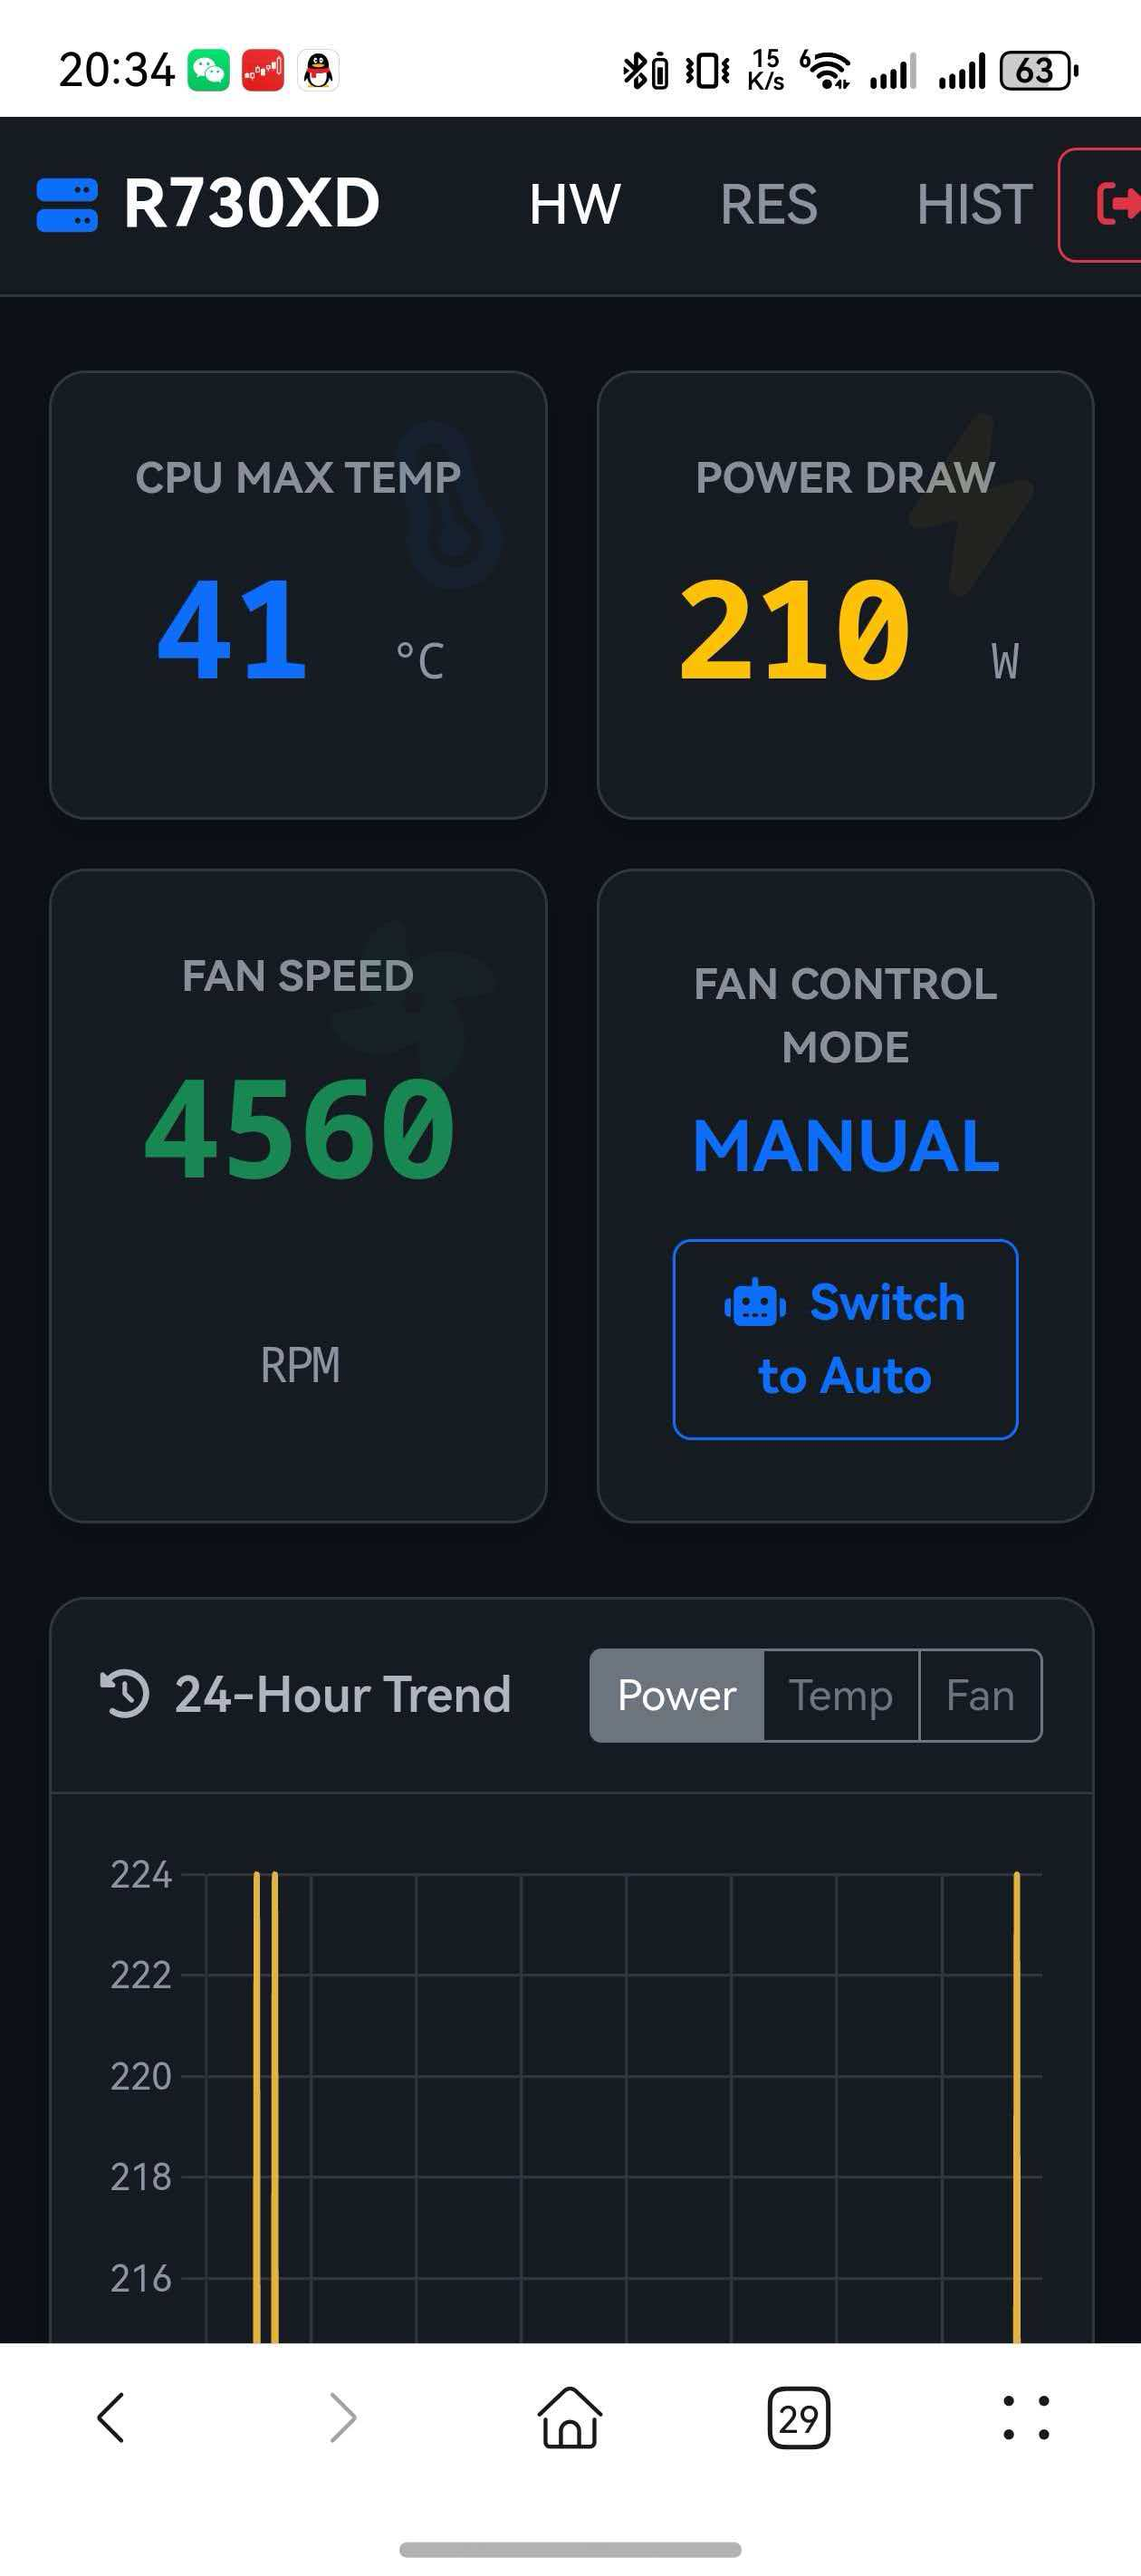
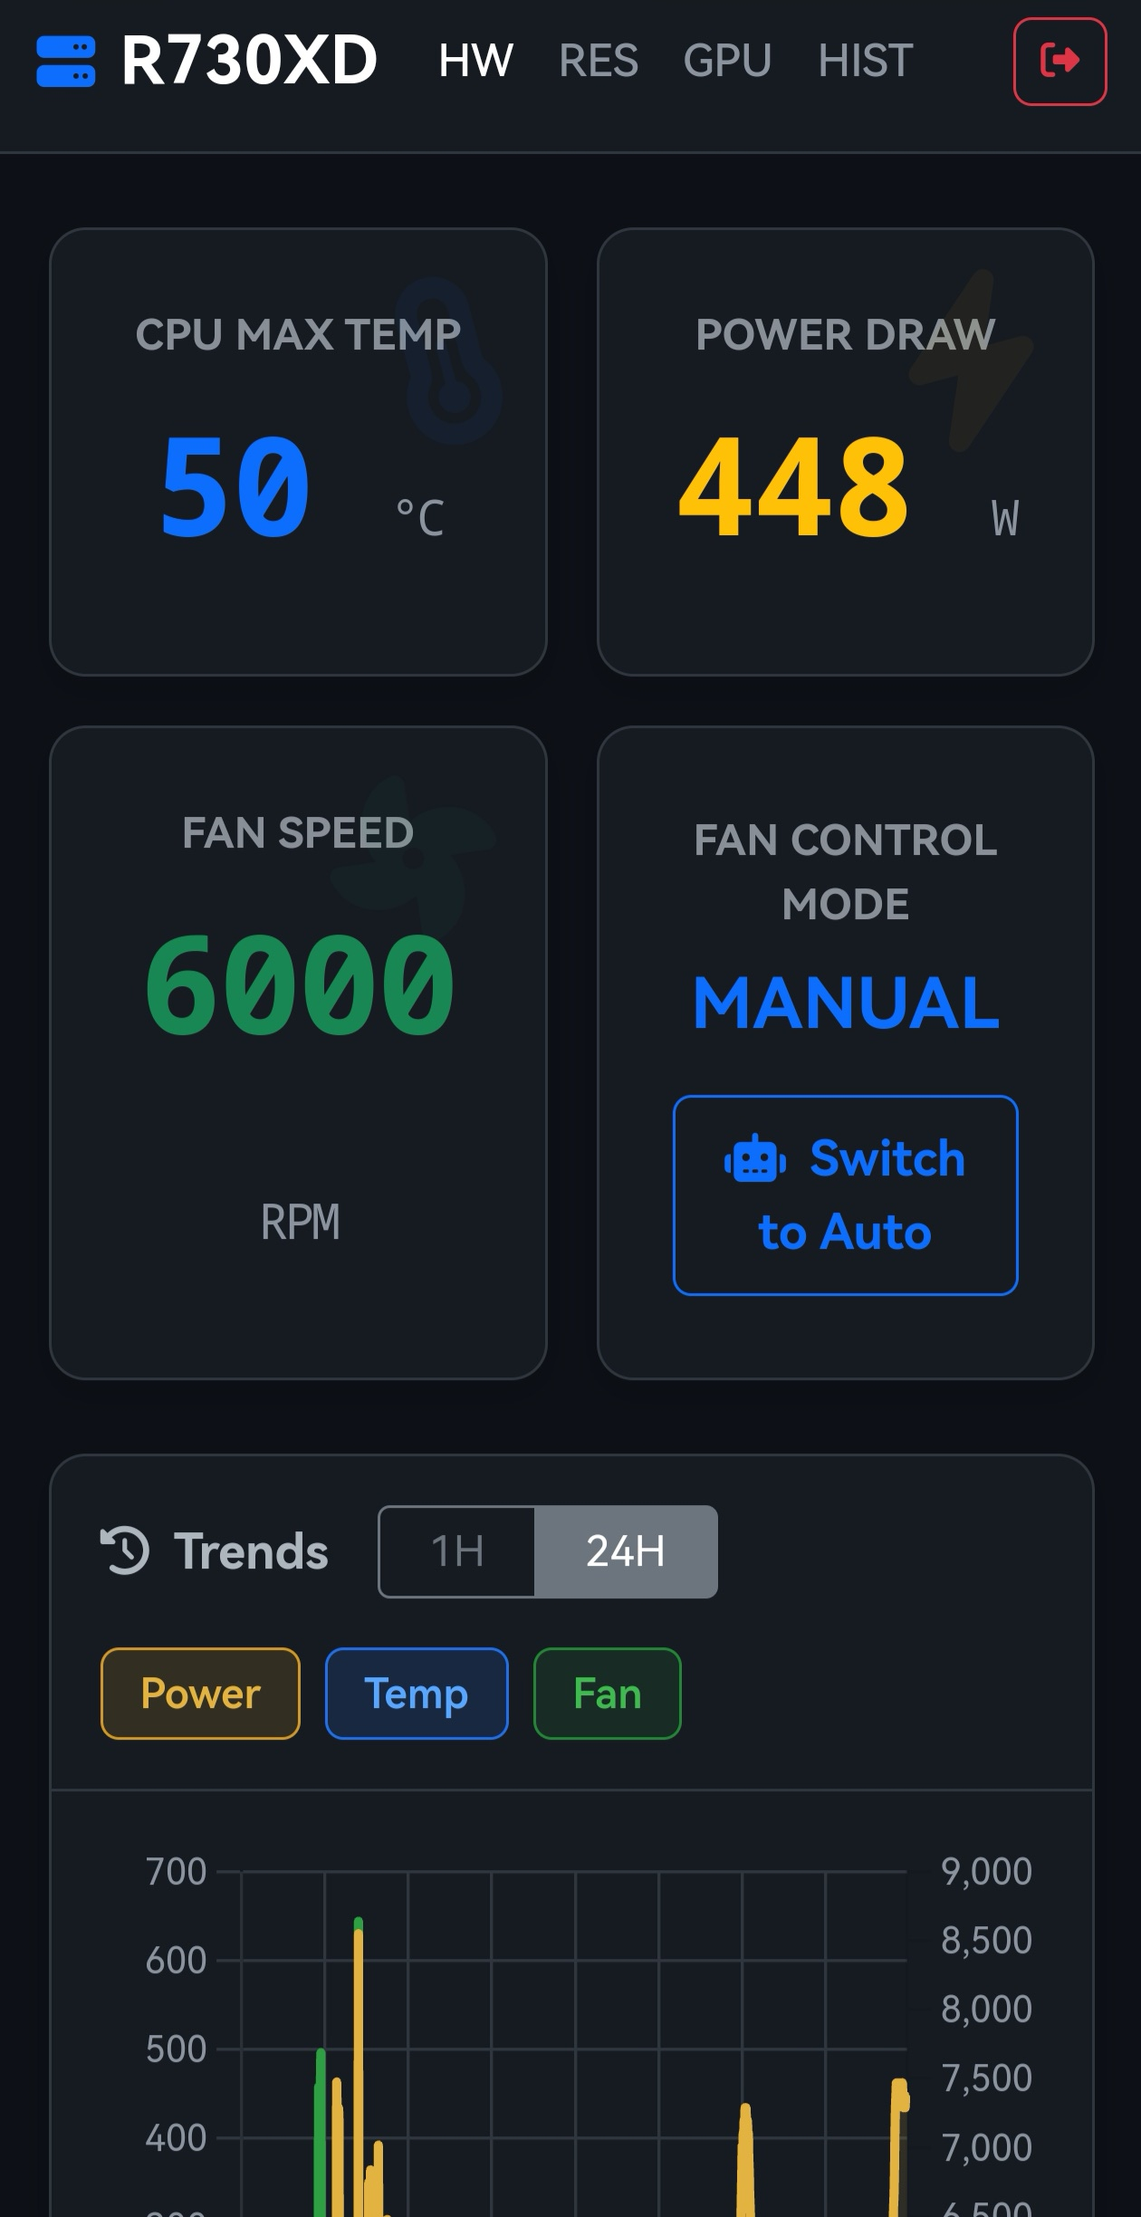
完善说明

diff --git a/README.md b/README.md
@@ -4,14 +4,17 @@
 
 本仪表板已在本人的**DELL PowerEdge R730xd**上部署并正常使用，其他型号服务器/PC也可部署。
 
-![alt text](/img/image.png)
-![alt text](/img/image-1.png)
-![alt text](/img/image-2.png)
+![alt text](/img/image.jpeg)
+![alt text](/img/image-1.jpeg)
+![alt text](/img/image-2.jpeg)
+![alt text](/img/image-3.png)
 
 <p align="center">
-  <img src="img/phone-1.jpg" width="32%" />
-  <img src="img/phone-2.jpg" width="32%" />
-  <img src="img/phone-3.jpg" width="32%" />
+  <img src="img/phone-1.jpg" width="24%" />
+  <img src="img/phone-2.jpg" width="24%" />
+  <img src="img/phone-3.jpg" width="24%" />
+  <img src="img/phone-4.jpg" width="24%" />
+  
 </p>
 
 ## 主要功能
@@ -24,13 +27,17 @@
     *   **状态可视化**: 集成实时波形图展示 GPU 核心负载与显存趋势，并根据温度区间（<50°C 绿色, 50-70°C 黄色, >70°C 红色）动态着色提醒。
 - **智能风扇控制**:
     - **自动模式**: 将风扇控制权交还给主板 IPMI 控制器。
-    - **手动曲线模式**: 用户可以自定义一个温度-风扇转速百分比的响应曲线，实现更安静或更高效的散热策略。
-- **风扇校准**: 内置校准程序，可自动测试并生成 PWM 占空比到实际风扇 RPM 的映射关系，从而实现更精确的风扇速度控制。
+    - **手动曲线模式**: 用户可以自定义温度-风扇转速百分比响应曲线。
+    - **固定转速模式**: 支持一键锁定风扇至指定转速，不受温度波动影响，适用于特定负载场景。
+- **风扇校准**: 内置校准程序，可自动测试并生成 PWM 占空比到实际风扇 RPM 的映射关系，从而实现更精确的转速控制。
 - **历史数据图表**: 
-    *   查看过去 24 小时或更长时间的详细性能指标。
-    *   支持 CPU、RAM、网络、磁盘以及 GPU 的全维度历史数据对比分析。
-    *   数据经过智能降采样处理，确保在分析 7 天以上数据时依然流畅无卡顿。
-- **简单安全**: 所有页面均受密码保护。
+    *   **多维对比**: 支持查看 1H, 6H, 24H, 3D, 7D 等不同时间跨度的性能指标。
+    *   **准星同步**: 多个图表间的光标准星同步，方便跨维度（如温度、功耗、负载）进行关联分析。
+    *   **智能降采样**: 采用数据降采样算法，确保在分析长达 7 天的历史曲线时依然保持极高的响应速度。
+- **全端适配**: 专门针对移动端浏览器优化，支持触控操作、横向滑动标签页及响应式布局，随时随地掌握服务器状态。
+- **卓越性能与安全**:
+    - **读写优化**: 数据库采用 WAL (Write-Ahead Logging) 模式，解决高频采集时的并发冲突，确保 Web 访问流畅。
+    - **访问安全**: 所有监控及控制页面均受密码保护，会话持久化支持。
 
 ## 技术栈
 
